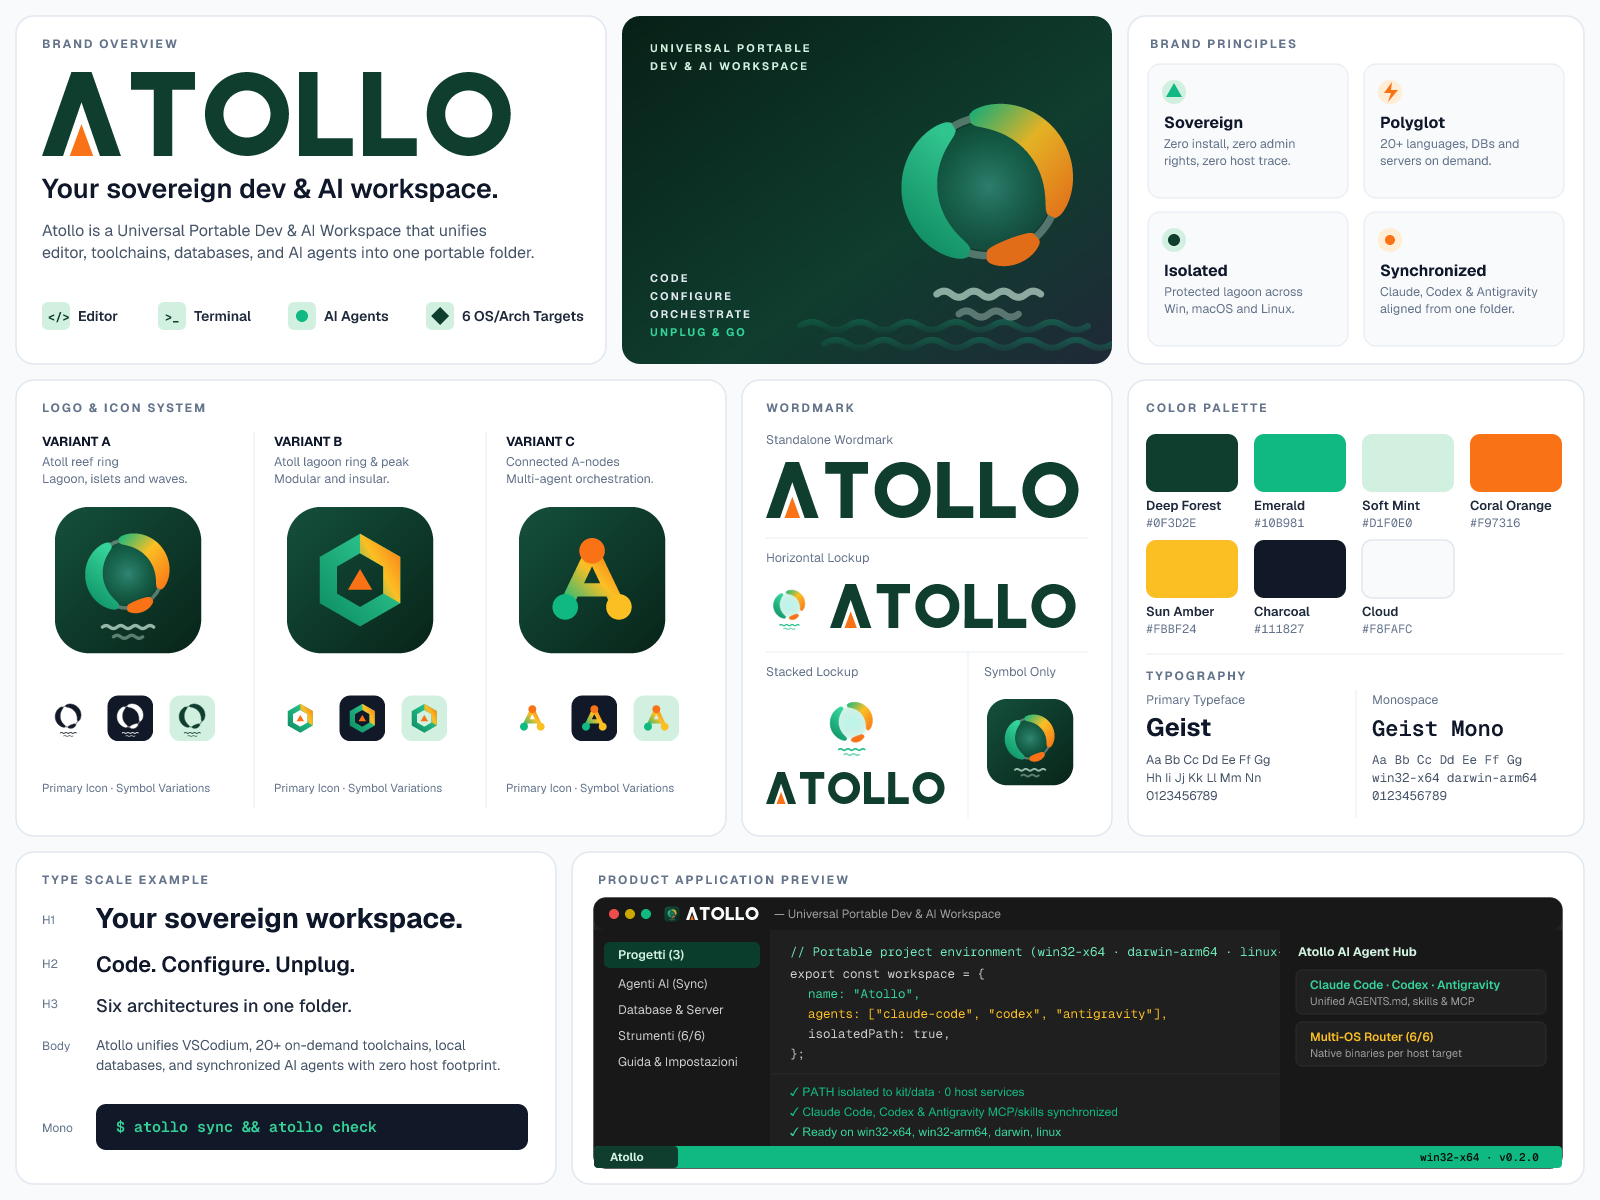
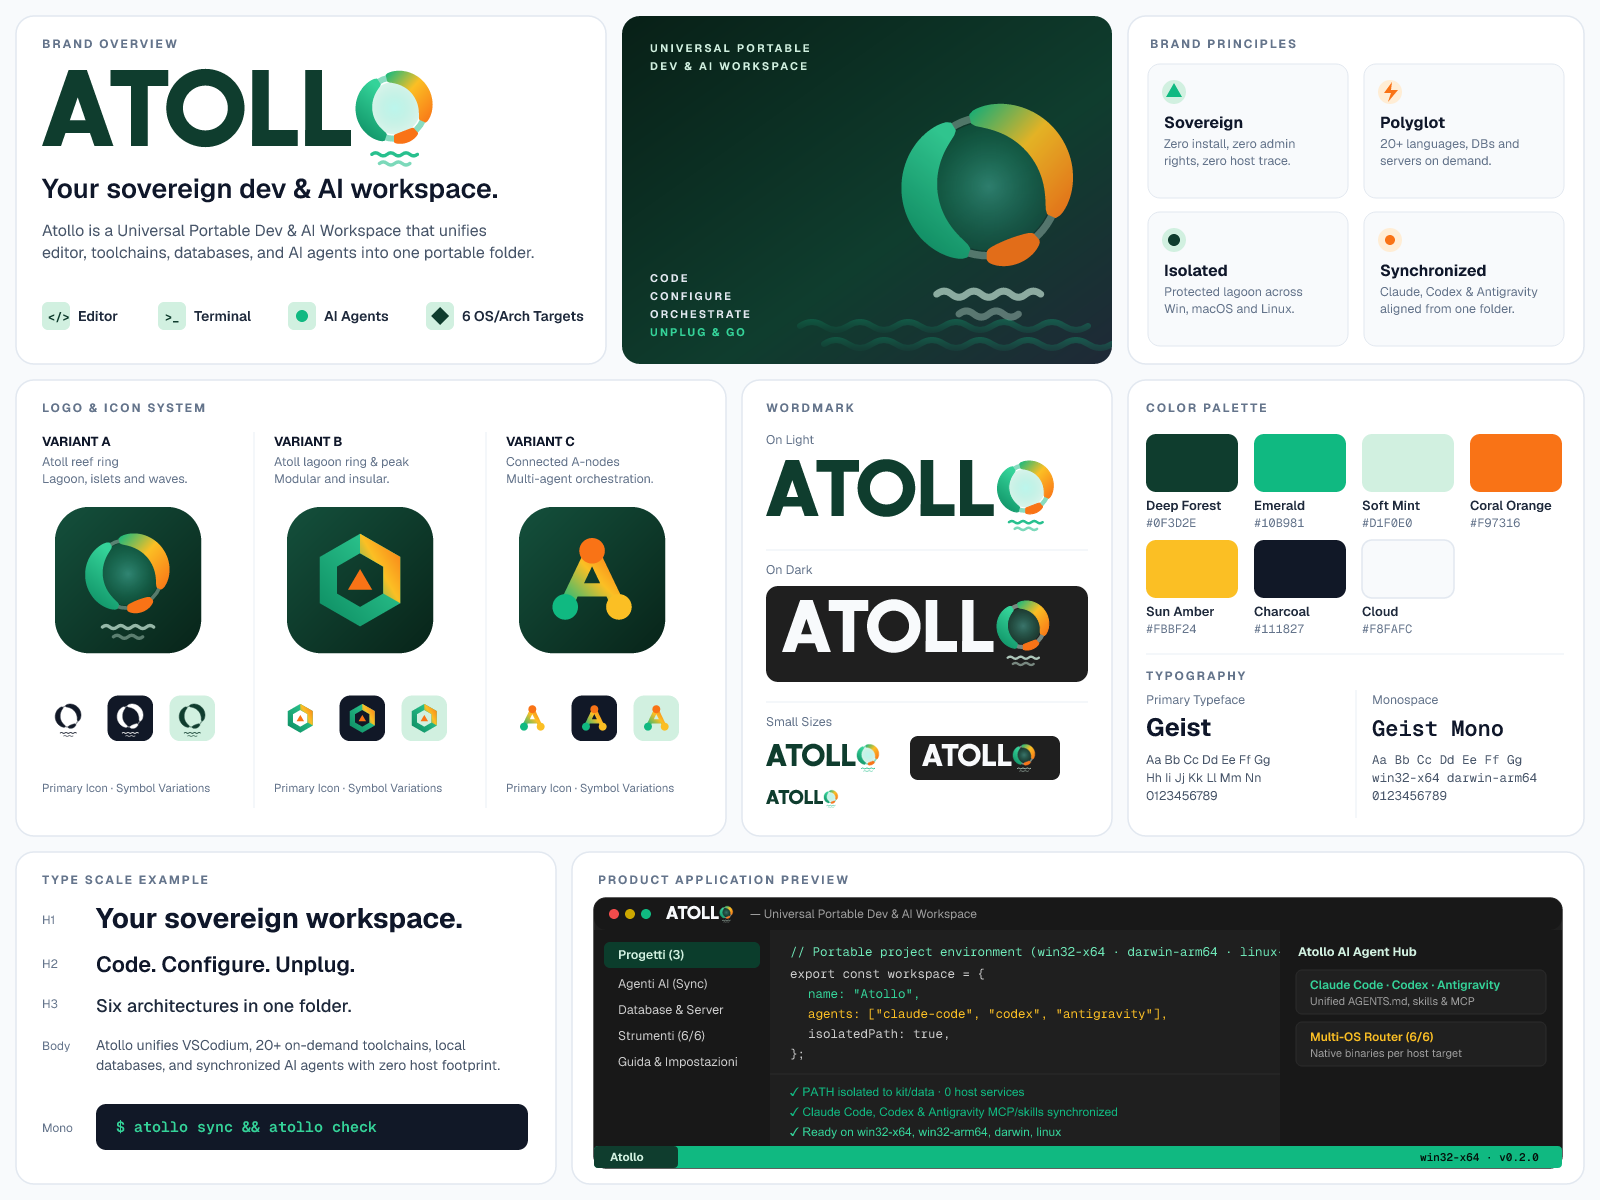
feat(brand): the wordmark's last O is the atoll
The A is a plain capital again, without the orange triangle. The last O
of ATOLLO is the symbol, drawn in the letters' units: islets as thick
as a stem, a reef a third of a stem so the O reads closed, both O's
overshooting the cap height and the baseline, and the two waves below
the baseline as a descender. Letter spacing is kerned pair by pair.

Since the wordmark carries the symbol, the lockups are gone and the
title bar shows the wordmark alone. The wordmark is now 514 x 129.

Changed region(s): [[0.4688, 0.3392, 0.6875, 0.6783], [0.0312, 0.0617, 0.3438, 0.1542], [0.4062, 0.74, 0.625, 0.7708]]

diff --git a/ui/src/titlebar.tsx b/ui/src/titlebar.tsx
@@ -9,7 +9,7 @@ import { VscChromeClose, VscChromeMaximize, VscChromeMinimize, VscChromeRestore 
 import { getCurrentWindow, type Window } from "@tauri-apps/api/window";
 import { browserPreview } from "./api";
 import { t } from "./i18n";
-import { BrandSymbol, BrandWordmark } from "./brand";
+import { BrandWordmark } from "./brand";
 import { Badge } from "./tags";
 
 /** The window, or null in the browser preview and in the tests. */
@@ -63,8 +63,7 @@ export function TitleBar({ title }: { title: string | undefined }) {
       className="flex h-[35px] shrink-0 items-center border-b border-vsc-titlebar-border bg-vsc-titlebar text-vsc-titlebar-fg select-none"
     >
       <span data-tauri-drag-region className="flex items-center gap-2 pl-3 text-[12px]">
-        <BrandSymbol size={16} />
-        <BrandWordmark height={11} />
+        <BrandWordmark height={14} />
         {title && (
           <span data-tauri-drag-region className="text-vsc-desc">
             — {title}

diff --git a/site/template.html b/site/template.html
@@ -27,10 +27,10 @@
 <body>
 <header class="top">
   <div class="wrap top-row">
-    <!-- The wordmark alone: the symbol is an A too (MARKETING.md, section 6). -->
+    <!-- The wordmark alone: its last O is the atoll already (MARKETING.md, section 6). -->
     <a class="brand" href="{{root}}{{langPath}}" aria-label="Atollo">
-      <img class="logo logo-dark" src="{{root}}assets/wordmark-dark.svg" alt="Atollo" width="112" height="20">
-      <img class="logo logo-light" src="{{root}}assets/wordmark-light.svg" alt="Atollo" width="112" height="20">
+      <img class="logo logo-dark" src="{{root}}assets/wordmark-dark.svg" alt="Atollo" width="100" height="25">
+      <img class="logo logo-light" src="{{root}}assets/wordmark-light.svg" alt="Atollo" width="100" height="25">
     </a>
     <nav class="nav" aria-label="Atollo">
       <a href="#features">{{navFeatures}}</a>

diff --git a/ui/src/brand.tsx b/ui/src/brand.tsx
@@ -9,10 +9,12 @@ export function BrandSymbol({ size }: { size: number }) {
   return <img data-tauri-drag-region src={symbol} alt="" width={size} height={size} draggable={false} />;
 }
 
-/** The name, in Deep Forest on light and Cloud on dark; `height` in px. */
+/** The name, in Deep Forest on light and Cloud on dark, its last O the
+ * symbol with the waves below the baseline: never next to BrandSymbol.
+ * `height` in px, waves included (the capitals take 100/129 of it). */
 export function BrandWordmark({ height, label = true }: { height: number; label?: boolean }) {
-  // 558 x 100: the wordmark's viewBox.
-  const width = Math.round((height * 558) / 100);
+  // 514 x 129: the wordmark's viewBox.
+  const width = Math.round((height * 514) / 129);
   const alt = label ? "Atollo" : "";
   return (
     <>

diff --git a/site/assets/site.css b/site/assets/site.css
@@ -149,7 +149,7 @@ section { padding: 96px 0; position: relative; }
 .top.scrolled { background: var(--glass); backdrop-filter: blur(12px); border-color: var(--border); }
 .top-row { display: flex; align-items: center; gap: 24px; height: 60px; }
 .brand { display: flex; }
-.logo { height: 20px; width: auto; }
+.logo { height: 25px; width: auto; }
 .logo-light { display: none; }
 @media (prefers-color-scheme: light) { .logo-dark { display: none; } .logo-light { display: block; } }
 .nav { display: flex; gap: 22px; margin-left: auto; font-size: 0.9rem; }

diff --git a/docs/brand/make.py b/docs/brand/make.py
@@ -43,16 +43,17 @@ ISLETS = {"west": (108, 238, 1.0), "north": (256, 384, 1.0), "south": (48, 90, 0
 class Atoll:
     """One drawing of the atoll: ring center and radius, islet and reef widths,
     and the waves below as (y, first x, crests) with wavelength, amplitude and
-    stroke. The full symbol and the small-size one differ only here."""
+    stroke, and the round edge stroked around the islets. The full symbol, the
+    small-size one and the wordmark's O differ only here."""
 
-    def __init__(self, cx, cy, r, islet_w, reef_w, waves, wave_l, wave_a, wave_w):
+    def __init__(self, cx, cy, r, islet_w, reef_w, waves, wave_l, wave_a, wave_w, edge=6):
         self.cx, self.cy, self.r = cx, cy, r
-        self.islet_w, self.reef_w = islet_w, reef_w
+        self.islet_w, self.reef_w, self.edge = islet_w, reef_w, edge
         self.waves, self.wave_l, self.wave_a, self.wave_w = waves, wave_l, wave_a, wave_w
 
     def box(self):
         """x0, y0, x1, y1 around the islets and the waves."""
-        half = self.r + self.islet_w / 2 + 3
+        half = self.r + self.islet_w / 2 + self.edge / 2
         bottom = max(y for y, _, _ in self.waves) + self.wave_a / 2 + self.wave_w / 2
         return self.cx - half, self.cy - half, self.cx + half, bottom
 
@@ -105,7 +106,7 @@ def atoll(a, paints, reef_paint, reef_op, wave_paint, wave_ops, lagoon=None):
     for name, (a0, a1, scale) in ISLETS.items():
         p = paints[name]
         d = islet_path(a.cx, a.cy, a.r, a0, a1, a.islet_w * scale, max(a.reef_w, a.islet_w * 0.2))
-        out += f'<path d="{d}" fill="{p}" stroke="{p}" stroke-width="6" stroke-linejoin="round"/>'
+        out += f'<path d="{d}" fill="{p}" stroke="{p}" stroke-width="{a.edge:g}" stroke-linejoin="round"/>'
     for (y, x0, crests), op in zip(a.waves, wave_ops):
         out += stroked(wave_path(x0, y, crests, a.wave_l, a.wave_a), wave_paint, a.wave_w, op)
     return out
@@ -141,7 +142,7 @@ def glyph(fill=None, defs_id="a", a=FULL, wave=MINT):
 
 def svg(w, h, body, title):
     return (
-        f'<svg xmlns="http://www.w3.org/2000/svg" viewBox="0 0 {w} {h}" width="{w}" height="{h}">'
+        f'<svg xmlns="http://www.w3.org/2000/svg" viewBox="0 0 {w:g} {h:g}" width="{w:g}" height="{h:g}">'
         f"<title>{title}</title>{body}</svg>\n"
     )
 
@@ -177,55 +178,84 @@ def rect(x0, y0, x1, y1):
     return f"{x0},{y0} {x1},{y0} {x1},{y1} {x0},{y1}"
 
 
+# Round letters overshoot the cap height and the baseline, or they look
+# smaller than the straight ones.
+OVERSHOOT = 1.5
+O_OUT = 50 + OVERSHOOT  # the O's outer radius, its inner one a stroke less
+
+
+def ring(r_out, r_in, c=50):
+    """A full ring around (c, c), evenodd."""
+    return "".join(
+        f"M{c} {c - r}A{r} {r} 0 1 {s} {c} {c + r}A{r} {r} 0 1 {s} {c} {c - r}Z"
+        for r, s in ((r_out, 1), (r_in, 0))
+    )
+
+
 LETTERS = {
-    "A": (94, ["0,100 35,0 59,0 94,100 69,100 47,36 25,100"], []),
+    "A": (94, ["0,100 35,0 59,0 94,100 69,100 47,36 25,100", rect(30, 66, 64, 83)], []),
     "T": (76, [rect(0, 0, 76, 21), rect(27, 0, 49, 100)], []),
-    "O": (100, [], ["M50 0A50 50 0 1 1 50 100A50 50 0 1 1 50 0ZM50 22A28 28 0 1 0 50 78A28 28 0 1 0 50 22Z"]),
-    "L": (64, [rect(0, 0, S, 100), rect(0, 79, 64, 100)], []),
+    "O": (100, [], [ring(O_OUT, O_OUT - S)]),
+    "L": (60, [rect(0, 0, S, 100), rect(0, 79, 60, 100)], []),
 }
-A_TRIANGLE = "47,62 61,100 33,100"  # the orange accent inside the A
-GAP = 12
+# Space between the letters' boxes, pair by pair, so the white between them
+# looks even: a stem beside a stem gets the most, the A's slope tucks under the
+# T's bar and the T's bar over the O, the L's open top leaves the next letter
+# room, and the round O's overshoot is taken back from its neighbours.
+KERN = {"AT": -4, "TO": -1, "OL": 11.5, "LL": 10, "LO": 7.5}
+
+# The last O is the symbol itself, so the wordmark is also the lockup. It is
+# drawn in the letters' units, not shrunk from the icon: the islets are as
+# thick as a stem and their ring overshoots like the other O, the reef that
+# joins them is a third of a stem so the O reads closed, and the two waves
+# hang below the baseline as a descender, a fifth of a stem thick, spaced
+# and centered like the icon's.
+O_ATOLL = Atoll(
+    50, 50, O_OUT - S / 2, S - 2, 8,
+    [(111, 20, 3), (123, 30, 2)], 20, 4, 4.5, edge=2,
+)  # fmt: skip
+WM_H = math.ceil(O_ATOLL.box()[3] + OVERSHOOT)
 
 
-def wordmark(ink, accent=ORANGE):
+def atoll_o(ink):
+    """The atoll as the last O: reef and waves in mint on dark grounds and in
+    emerald on light ones, where mint fades into white."""
+    dark = ink == CLOUD
+    i = "wd" if dark else "wl"
+    sea = MINT if dark else EMERALD
+    paints = {"west": f"url(#{i}l)", "north": f"url(#{i}r)", "south": ORANGE}
+    ops = (".8", ".5") if dark else (".9", ".55")
+    return glyph_defs(i) + atoll(O_ATOLL, paints, sea, ".5", sea, ops, f"url(#{i}g)")
+
+
+def wordmark(ink):
+    name = "ATOLLO"
     x = 0
     parts = []
-    for ch in "ATOLLO":
+    for k, ch in enumerate(name):
         w, polys, paths = LETTERS[ch]
-        g = [f'<polygon points="{p}"/>' for p in polys]
-        g += [f'<path d="{d}" fill-rule="evenodd"/>' for d in paths]
-        if ch == "A":
-            g.append(f'<polygon points="{A_TRIANGLE}" fill="{accent}"/>')
+        if k == len(name) - 1:  # the last O
+            g = [atoll_o(ink)]
+        else:
+            g = [f'<polygon points="{p}"/>' for p in polys]
+            g += [f'<path d="{d}" fill-rule="evenodd"/>' for d in paths]
         parts.append(f'<g transform="translate({x} 0)">{"".join(g)}</g>')
-        x += w + GAP
-    return x - GAP, f'<g fill="{ink}">{"".join(parts)}</g>'
+        x += w + KERN.get(name[k : k + 2], 0)
+    return x, f'<g fill="{ink}">{"".join(parts)}</g>'
 
 
 WM_W, _ = wordmark(FOREST)
 
 
 def wordmark_svg(ink):
+    """The wordmark on its own canvas, moved down by the O's overshoot."""
     _, body = wordmark(ink)
-    return svg(WM_W, 100, body, "Atollo")
-
-
-def lockup_svg(ink, wave):
-    """Horizontal lockup: the colored atoll, then the wordmark."""
-    _, body = wordmark(ink)
-    # Glyph box: the islets' outer edge down to the lower wave, scaled to height 100.
-    x0, y0, x1, y1 = FULL.box()
-    k = 100 / (y1 - y0)
-    gw = (x1 - x0) * k
-    sym = f'<g transform="translate({-x0 * k:.3f} {-y0 * k:.3f}) scale({k:.5f})">{glyph(defs_id="lk", wave=wave)}</g>'
-    w = gw + 40 + WM_W
-    return svg(round(w), 100, sym + f'<g transform="translate({gw + 40:.3f} 0)">{body}</g>', "Atollo")
+    return svg(WM_W, WM_H, f'<g transform="translate(0 {OVERSHOOT})">{body}</g>', "Atollo")
 
 
 WORDMARKS = {
     "wordmark-light": wordmark_svg(FOREST),  # on light backgrounds
     "wordmark-dark": wordmark_svg(CLOUD),  # on dark backgrounds
-    "lockup-light": lockup_svg(FOREST, EMERALD),
-    "lockup-dark": lockup_svg(CLOUD, MINT),
 }
 
 
@@ -383,7 +413,7 @@ def brand_board_svg():
   <!-- 1. BRAND OVERVIEW (Top Left) -->
   <rect x="16" y="16" width="590" height="348" rx="18" fill="#FFFFFF" stroke="#E2E8F0" stroke-width="1.5"/>
   <text x="42" y="48" font-family="{font}" font-size="12" font-weight="700" letter-spacing="2" fill="#64748B">BRAND OVERVIEW</text>
-  <g transform="translate(42 72) scale(0.84)">{wm_forest}</g>
+  <g transform="translate(42 70) scale(0.76)">{wm_forest}</g>
   <text x="42" y="198" font-family="{font}" font-size="27" font-weight="600" fill="#0F172A">Your sovereign dev &amp; AI workspace.</text>
   <text x="42" y="236" font-family="{font}" font-size="16" fill="#475569">Atollo is a Universal Portable Dev &amp; AI Workspace that unifies</text>
   <text x="42" y="258" font-family="{font}" font-size="16" fill="#475569">editor, toolchains, databases, and AI agents into one portable folder.</text>
@@ -482,25 +512,23 @@ def brand_board_svg():
   <g transform="translate(632 694) scale(0.095)">{tile(MINT, var_c)}</g>
   <text x="506" y="792" font-family="{font}" font-size="11.5" fill="#64748B">Primary Icon · Symbol Variations</text>
 
-  <!-- 5. WORDMARK & LOCKUPS (Middle Center) -->
+  <!-- 5. WORDMARK (Middle Center): the last O is the symbol, so it is the lockup too -->
   <rect x="742" y="380" width="370" height="456" rx="18" fill="#FFFFFF" stroke="#E2E8F0" stroke-width="1.5"/>
   <text x="766" y="412" font-family="{font}" font-size="12" font-weight="700" letter-spacing="2" fill="#64748B">WORDMARK</text>
-  <text x="766" y="444" font-family="{font}" font-size="12.5" fill="#64748B">Standalone Wordmark</text>
-  <g transform="translate(766 462) scale(0.56)">{wm_forest}</g>
+  <text x="766" y="444" font-family="{font}" font-size="12.5" fill="#64748B">On Light</text>
+  <g transform="translate(766 460) scale(0.56)">{wm_forest}</g>
 
-  <line x1="766" y1="538" x2="1088" y2="538" stroke="#F1F5F9" stroke-width="1.5"/>
-  <text x="766" y="562" font-family="{font}" font-size="12.5" fill="#64748B">Horizontal Lockup</text>
-  <g transform="translate(760 578) scale(0.115)">{glyph(defs_id="hlk", wave=EMERALD)}</g>
-  <g transform="translate(830 584) scale(0.44)">{wm_forest}</g>
+  <line x1="766" y1="550" x2="1088" y2="550" stroke="#F1F5F9" stroke-width="1.5"/>
+  <text x="766" y="574" font-family="{font}" font-size="12.5" fill="#64748B">On Dark</text>
+  <rect x="766" y="586" width="322" height="96" rx="12" fill="#1F1F1F"/>
+  <g transform="translate(782 600) scale(0.52)">{wm_cloud}</g>
 
-  <line x1="766" y1="652" x2="1088" y2="652" stroke="#F1F5F9" stroke-width="1.5"/>
-  <text x="766" y="676" font-family="{font}" font-size="12.5" fill="#64748B">Stacked Lockup</text>
-  <g transform="translate(812 686) scale(0.155)">{glyph(defs_id="slk", wave=EMERALD)}</g>
-  <g transform="translate(766 772) scale(0.32)">{wm_forest}</g>
-
-  <line x1="968" y1="652" x2="968" y2="818" stroke="#F1F5F9" stroke-width="1.5"/>
-  <text x="984" y="676" font-family="{font}" font-size="12.5" fill="#64748B">Symbol Only</text>
-  <g transform="translate(984 696) scale(0.18)">{tile("url(#bg-tile)", glyph(defs_id="so"))}</g>
+  <line x1="766" y1="702" x2="1088" y2="702" stroke="#F1F5F9" stroke-width="1.5"/>
+  <text x="766" y="726" font-family="{font}" font-size="12.5" fill="#64748B">Small Sizes</text>
+  <g transform="translate(766 744) scale(0.22)">{wm_forest}</g>
+  <rect x="910" y="736" width="150" height="44" rx="8" fill="#1F1F1F"/>
+  <g transform="translate(922 744) scale(0.22)">{wm_cloud}</g>
+  <g transform="translate(766 790) scale(0.14)">{wm_forest}</g>
 
   <!-- 6. COLOR PALETTE & TYPOGRAPHY (Middle Right) -->
   <rect x="1128" y="380" width="456" height="456" rx="18" fill="#FFFFFF" stroke="#E2E8F0" stroke-width="1.5"/>
@@ -547,9 +575,8 @@ def brand_board_svg():
   <circle cx="614" cy="914" r="5" fill="#F14C4C"/>
   <circle cx="630" cy="914" r="5" fill="#CCA700"/>
   <circle cx="646" cy="914" r="5" fill="#10B981"/>
-  <g transform="translate(664 906) scale(0.032)">{tile("url(#bg-tile)", glyph(defs_id="pw"))}</g>
-  <g transform="translate(686 907) scale(0.13)">{wm_cloud}</g>
-  <text x="774" y="918" font-family="{font}" font-size="12" fill="#9D9D9D">— Universal Portable Dev &amp; AI Workspace</text>
+  <g transform="translate(666 906) scale(0.13)">{wm_cloud}</g>
+  <text x="750" y="918" font-family="{font}" font-size="12" fill="#9D9D9D">— Universal Portable Dev &amp; AI Workspace</text>
 
   <!-- Sidebar -->
   <rect x="594" y="930" width="176" height="218" fill="#181818"/>

diff --git a/docs/brand/MARKETING.md b/docs/brand/MARKETING.md
@@ -112,7 +112,7 @@ I colori del brand riflettono naturalmente gli elementi fisici di un **Atollo oc
 | **Surf Glow (Highlight)** | — (`make.py` / `themes.py`) | `#34D399` | Link e testo evidenziato su tema scuro (`textLink.foreground`, `list.highlightForeground`), bordo tab selezionato su tema chiaro. |
 | **Crest Mint** | — (`themes.py`) | `#6EE7B7` | Bordo superiore del tab selezionato in tema scuro (`tab.selectedBorderTop`). |
 | **Shallow Mint (Soft Surface)** | `MINT` | `#D1F0E0` | Superficie morbida di accento, `inputOption.activeBackground` e `modernActivityBarItem.activeBackground` in tema chiaro, testo su `FOREST`. |
-| **Coral Orange (Dark Action)** | `ORANGE` | `#F97316` | **Accento secondario / Attenzione (Tema Scuro):** `charts.orange`, `statusBar.debuggingBackground`, triangolo interno della lettera `A` nel wordmark e vertice caldo del simbolo. |
+| **Coral Orange (Dark Action)** | `ORANGE` | `#F97316` | **Accento secondario / Attenzione (Tema Scuro):** `charts.orange`, `statusBar.debuggingBackground`, isolotto a sud-est del simbolo e della `O` finale del wordmark, vertice caldo del simbolo. |
 | **Deep Coral (Light Action)** | — (`themes.py`) | `#C2410C` | **Accento secondario / Attenzione (Tema Chiaro):** `charts.orange`, `statusBar.debuggingBackground` (contrasto pieno con `#FFFFFF`). |
 | **Sun Amber** | `AMBER` | `#FBBF24` | Transizione centrale del gradiente caldo nel simbolo e negli sfondi hero (`#10B981` → `#FBBF24` → `#F97316`). |
 
@@ -165,7 +165,9 @@ Per garantire che il sito web, la documentazione HTML, i componenti UI React (`-
    * Sito: `site/assets/fonts/` (latin, latin-ext e, per Geist Mono, i caratteri di riquadro degli alberi di cartelle), `@font-face` con `font-display: swap`, preload del solo Geist latin.
    * Editor integrato (VSCodium): gli stessi file del sito, inclusi nell'eseguibile e registrati dallo script della finestra con l'API `FontFace` (`tauri/src/editor/window.rs`); `editor.fontFamily` e `terminal.integrated.fontFamily` in `Machine\settings.json` (`tauri/src/editor/cfg.rs`), solo se l'utente non ne ha già scelto uno.
 3. **Logo nelle intestazioni:**
-   * In header, barre di navigazione e firme si usa il solo wordmark (`wordmark-dark.svg` / `wordmark-light.svg`), mai il lockup simbolo + scritta. Il simbolo (l'atollo visto dall'alto: barriera ad anello, tre isolotti, laguna turchese e due onde stilizzate) resta da solo per favicon, icona dell'app e immagini hero.
+   * In header, barre di navigazione e firme si usa il wordmark (`wordmark-dark.svg` / `wordmark-light.svg`). Non esiste un lockup separato: la `O` finale di ATOLLO **è** il simbolo intero (l'atollo visto dall'alto: barriera ad anello, tre isolotti, laguna turchese e le due onde, che scendono sotto la linea di base), quindi il wordmark non va mai affiancato al simbolo. La `A` resta una lettera piena, senza accenti.
+   * Su sfondo chiaro barriera e onde della `O` sono smeraldo, su sfondo scuro menta. Il file è 514 × 129: le maiuscole occupano 100, le O sporgono di 1,5 sopra e sotto come ogni lettera tonda, le onde scendono sotto la linea di base per i restanti 27,5. La O finale è disegnata nelle unità delle lettere, non rimpicciolita dall'icona: isolotti spessi quanto un'asta, barriera a un terzo d'asta perché la O si legga chiusa.
+   * Il simbolo da solo resta per favicon, icona dell'app e immagini hero.
 4. **Uso dei Tag Tecnici:**
    * Tutti i nomi di target (`win32-x64`, `darwin-arm64`, `linux-x64`…), i percorsi (`projects/`, `data/apps/`), i comandi CLI (`atollo check`, `atollo sync`) e i formati di archivio (`.tar.gz`, `.zip`, `.AppImage`) vanno sempre resi in **monospace** con bordo sottile `1px solid var(--vsc-border)`.
 
@@ -239,7 +241,7 @@ Quando un agente prepara materiali per il lancio pubblico, deve dare priorità a
 Se all'agente viene chiesto di applicare o aggiornare il brand **Atollo** nel codice sorgente, questi sono i punti esatti di intervento:
 
 1. **Generatori del Brand e dei Temi (Fonte primaria):**
-   * [`docs/brand/make.py`](make.py): genera i file SVG (`symbol*.svg`, `wordmark-*.svg`, `lockup-*.svg`, `hero-*.svg`), i PNG (`logo-32.png`, `logo-256.png`, `symbol-512.png`, `ui/public/favicon.png`) e tutte le icone di `tauri/icons/` (`icon.ico`, `icon.icns`, `icon.png`, `32x32.png`, `128x128*.png`). Fino a 48 px si usa `symbol-small.svg`: isolotti più grossi, niente barriera sommersa, un'onda sola e spessa, perché a quelle dimensioni i dettagli si impastano. Gli sfondi `hero-*.svg` riprendono il simbolo: l'atollo in alto a destra e file di onde che sfumano verso sinistra, dove sta il contenuto.
+   * [`docs/brand/make.py`](make.py): genera i file SVG (`symbol*.svg`, `wordmark-*.svg`, `hero-*.svg`), i PNG (`logo-32.png`, `logo-256.png`, `symbol-512.png`, `ui/public/favicon.png`) e tutte le icone di `tauri/icons/` (`icon.ico`, `icon.icns`, `icon.png`, `32x32.png`, `128x128*.png`). Fino a 48 px si usa `symbol-small.svg`: isolotti più grossi, niente barriera sommersa, un'onda sola e spessa, perché a quelle dimensioni i dettagli si impastano. Gli sfondi `hero-*.svg` riprendono il simbolo: l'atollo in alto a destra e file di onde che sfumano verso sinistra, dove sta il contenuto.
    * [`docs/brand/themes.py`](themes.py): legge [`docs/brand/vscode-defaults/dark.json`](vscode-defaults/dark.json) e [`docs/brand/vscode-defaults/light.json`](vscode-defaults/light.json) insieme a `vscodium-themes/`, applica la mappa colori `BRAND` e genera:
      * [`tauri/editor-theme/package.json`](../../tauri/editor-theme/package.json) e `themes/{dark,light}.json` (il tema installato in VSCodium);
      * [`ui/src/theme/theme-vscode.css`](../../ui/src/theme/theme-vscode.css) e [`ui/src/theme/theme-colors.css`](../../ui/src/theme/theme-colors.css).
